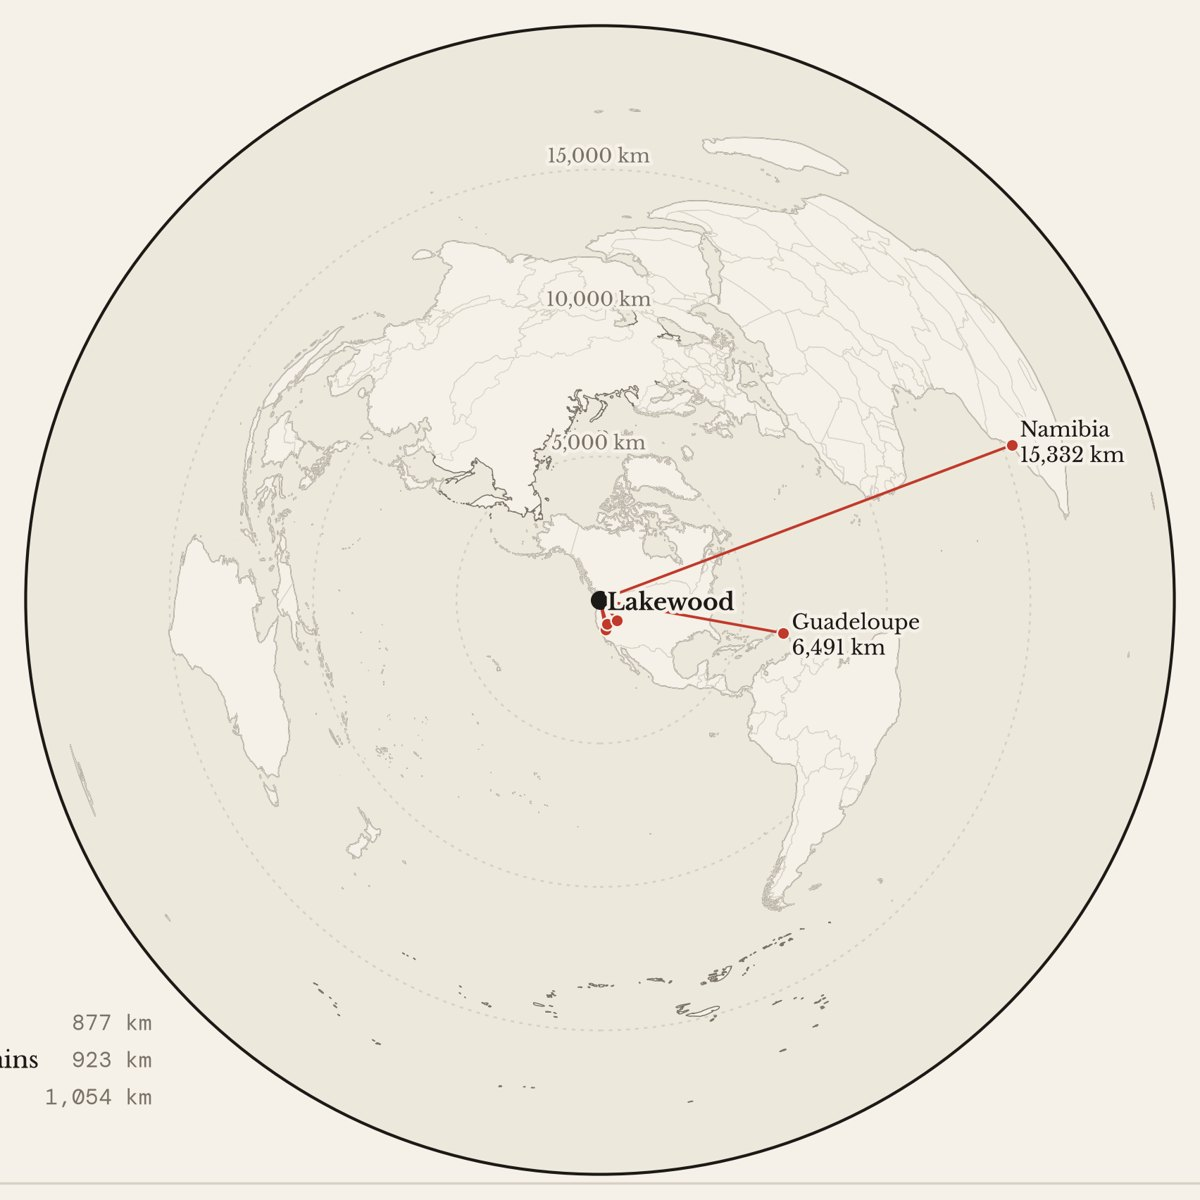
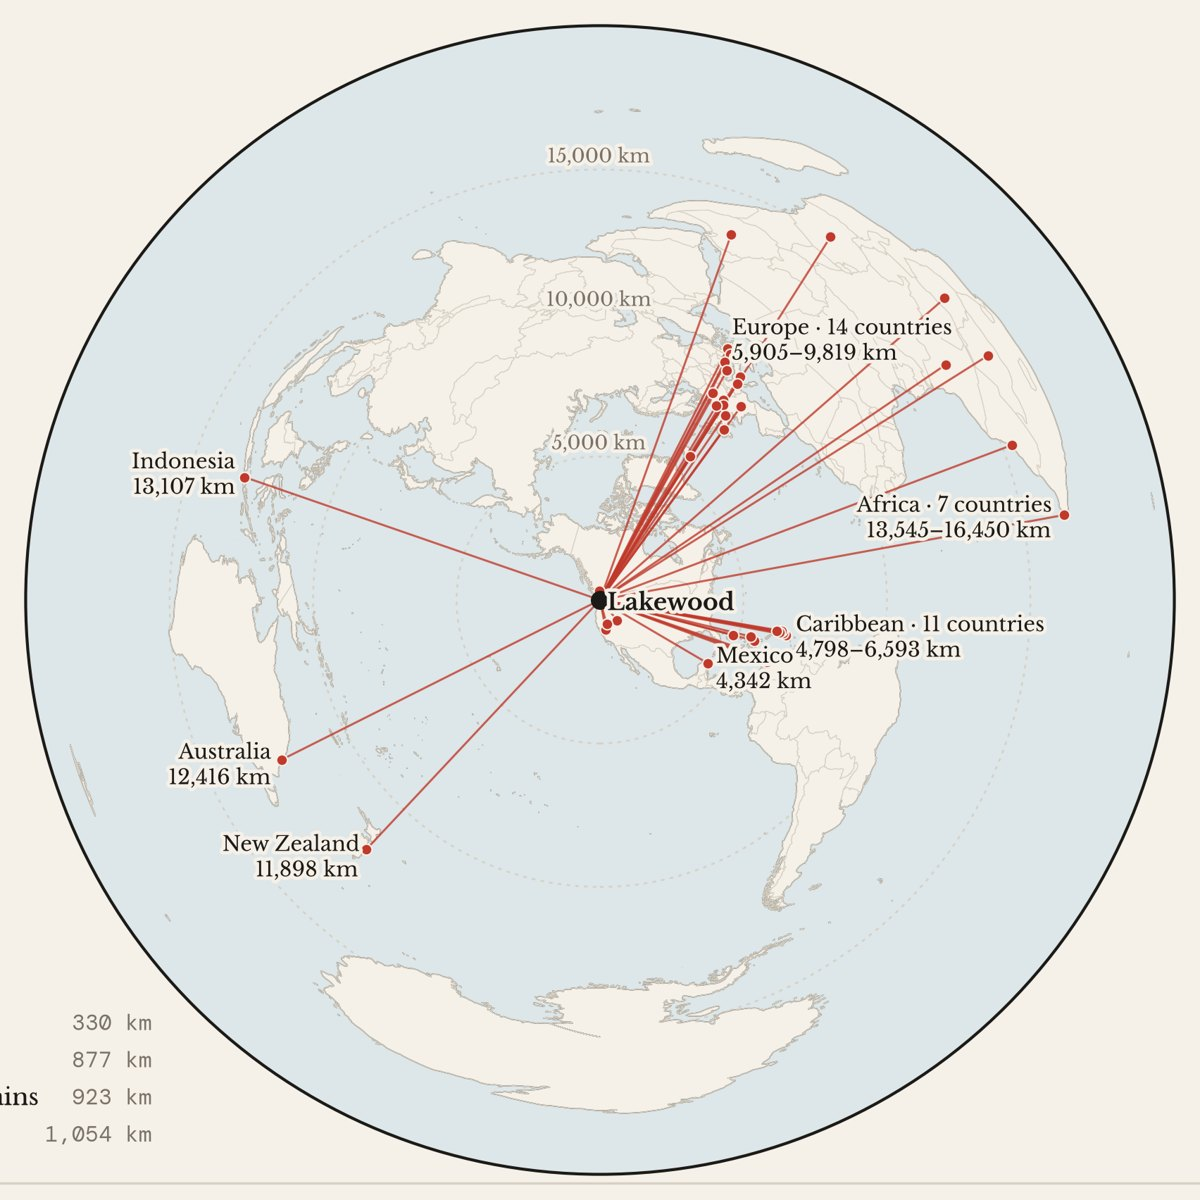
2026 Day 22: every country from the maps page (37), grouped labels, sea colour, and land that survives the projection
Places come from the Countries Visited layer on brooksgroves.com/maps.html,
at the middle of the geocache finds where there are any. Afro-Eurasia was
being dropped as an invalid shape near the antipode; it's now cut away from
the antipode and densified before projecting.

Claude-Session: https://claude.ai/code/session_01BLqNR1gKWRe4Nn6jLmYJMx

diff --git a/2026/share/day-22.html b/2026/share/day-22.html
@@ -2,19 +2,19 @@
 <html lang="en"><head><meta charset="UTF-8">
 <title>Day 22 · Projections: The world from Lakewood — #30DayMapChallenge 2026</title>
 <meta name="viewport" content="width=device-width, initial-scale=1">
-<meta name="description" content="A round world map centred on Lakewood, Washington, in an azimuthal equidistant projection, with red lines out to Groveland (1,054 km), Reno (877 km), Ruby Mountains (923 km), Namibia (15,332 km),…">
+<meta name="description" content="A round world map centred on Lakewood, Washington, in an azimuthal equidistant projection, with red lines out to the 37 countries I&#x27;ve been to and a few places closer to home. Africa: 7 countries,…">
 <link rel="canonical" href="https://brooksgroves.com/30DayMapChallenge/2026/share/day-22.html">
 <meta property="og:type" content="article">
 <meta property="og:site_name" content="Brooks Groves">
 <meta property="og:title" content="Day 22 · Projections: The world from Lakewood">
-<meta property="og:description" content="A round world map centred on Lakewood, Washington, in an azimuthal equidistant projection, with red lines out to Groveland (1,054 km), Reno (877 km), Ruby Mountains (923 km), Namibia (15,332 km),…">
+<meta property="og:description" content="A round world map centred on Lakewood, Washington, in an azimuthal equidistant projection, with red lines out to the 37 countries I&#x27;ve been to and a few places closer to home. Africa: 7 countries,…">
 <meta property="og:url" content="https://brooksgroves.com/30DayMapChallenge/2026/share/day-22.html">
 <meta property="og:image" content="https://brooksgroves.com/30DayMapChallenge/2026/day-22-projections/out/card.jpg">
 <meta property="og:image:width" content="1200"><meta property="og:image:height" content="630">
-<meta property="og:image:alt" content="A round world map centred on Lakewood, Washington, in an azimuthal equidistant projection, with red lines out to Groveland (1,054 km), Reno (877 km), Ruby Mountains (923 km), Namibia (15,332 km), Guadeloupe (6,491 km).">
+<meta property="og:image:alt" content="A round world map centred on Lakewood, Washington, in an azimuthal equidistant projection, with red lines out to the 37 countries I&#x27;ve been to and a few places closer to home. Africa: 7 countries, 13,545 to 16,450 km; Caribbean: 11 countries, 4,798 to 6,593 km; Europe: 14 countries, 5,905 to 9,819 km. Canada (330 km), Reno (877 km), Ruby Mountains (923 km), Groveland (1,054 km), Mexico (4,342 km), New Zealand (11,898 km), Australia (12,416 km), Indonesia (13,107 km). The farthest is South Africa.">
 <meta name="twitter:card" content="summary_large_image">
 <meta name="twitter:title" content="Day 22 · Projections: The world from Lakewood">
-<meta name="twitter:description" content="A round world map centred on Lakewood, Washington, in an azimuthal equidistant projection, with red lines out to Groveland (1,054 km), Reno (877 km), Ruby Mountains (923 km), Namibia (15,332 km),…">
+<meta name="twitter:description" content="A round world map centred on Lakewood, Washington, in an azimuthal equidistant projection, with red lines out to the 37 countries I&#x27;ve been to and a few places closer to home. Africa: 7 countries,…">
 <meta name="twitter:image" content="https://brooksgroves.com/30DayMapChallenge/2026/day-22-projections/out/card.jpg">
 <meta http-equiv="refresh" content="0; url=../#day-22">
 <script>location.replace("../#day-22")</script>

diff --git a/2026/day-22-projections/make.py b/2026/day-22-projections/make.py
@@ -5,7 +5,9 @@ An azimuthal equidistant projection centred on Lakewood, Washington. On this map
 this map, every straight line from the centre is the shortest route and its length is the true
 distance. The edge of the circle is the point on the far side of the Earth, in the Indian Ocean.
 
-Places are in places.csv (name, lat, lon, note): add to it and re-render.
+Places are in places.csv (name, lat, lon, note, group): every country on the Countries Visited layer
+at brooksgroves.com/maps.html (where I found geocaches there, the middle of those finds), plus a few
+places closer to home. Places that share a group (Europe, the Caribbean, Africa) get one label.
 Downloads (cached in data/): Natural Earth land and countries.
 """
 import sys
@@ -26,8 +28,9 @@ DATA = HERE / "data"
 HOME = (-122.5185, 47.1718)                       # Lakewood
 PROJ = f"+proj=aeqd +lat_0={HOME[1]} +lon_0={HOME[0]} +datum=WGS84 +units=m"
 R = 20_015_000                                    # half the Earth's circumference, m
+HOME_PLACES = {"Groveland", "Reno", "Ruby Mountains"}   # rows in places.csv that aren't countries
 
-places = pd.read_csv(HERE / "places.csv")
+places = pd.read_csv(HERE / "places.csv").fillna({"group": "", "note": ""})
 geod = Geod(ellps="WGS84")
 _, _, dist = geod.inv([HOME[0]] * len(places), [HOME[1]] * len(places), places["lon"], places["lat"])
 places["km"] = np.array(dist) / 1000
@@ -39,11 +42,17 @@ countries = fetch.shapes(fetch.COUNTRIES.replace("10m", "50m"), DATA / "countrie
 
 
 def project(gdf):
-    # clip just short of the antipode, where azimuthal equidistant blows up
+    """Azimuthal equidistant, clipped just short of the antipode where it blows up. Big polygons
+    (Afro-Eurasia is one) are cut away from the antipode first and densified, so they project to
+    valid shapes instead of being dropped."""
     from shapely.geometry import Point
-    g = gdf.to_crs(PROJ)
+    from shapely.validation import make_valid
+    anti = Point(HOME[0] + 180 if HOME[0] < 0 else HOME[0] - 180, -HOME[1]).buffer(1.5, 64)
+    g = gdf[["geometry"]].copy()
+    g["geometry"] = g.geometry.apply(make_valid).difference(anti).segmentize(0.5)
+    g = g[~g.geometry.is_empty].to_crs(PROJ)
+    g["geometry"] = g.geometry.apply(make_valid)
     disc = Point(0, 0).buffer(R * 0.995, 256)
-    g = g[g.geometry.is_valid & ~g.geometry.is_empty]
     g["geometry"] = g.geometry.intersection(disc)
     return g[~g.geometry.is_empty]
 
@@ -52,7 +61,7 @@ landp = project(land)
 ctry = project(countries)
 
 fig, ax = dmc.figure("square", map_box=(0.08, 0.075, 0.84, 0.70))
-ax.add_patch(Circle((0, 0), R, color=dmc.CREAM, zorder=0))
+ax.add_patch(Circle((0, 0), R, color="#dde6e8", zorder=0))     # sea
 for km in (5000, 10000, 15000):
     ax.add_patch(Circle((0, 0), km * 1000, fill=False, ec=dmc.MIST, lw=0.6, ls=(0, (2, 3)), zorder=1))
     dmc.label(ax, 0, km * 1000 + 250_000, f"{km:,} km", size=6.5, color=dmc.STONE, ha="center", zorder=6)
@@ -61,17 +70,30 @@ ctry.boundary.plot(ax=ax, color=dmc.MIST, lw=0.25, zorder=3)
 ax.add_patch(Circle((0, 0), R, fill=False, ec=dmc.INK, lw=1.0, zorder=4))
 from pyproj import Transformer  # noqa: E402
 to = Transformer.from_crs(4326, PROJ, always_xy=True)
-for _, p in places.iterrows():
-    x, y = to.transform(p["lon"], p["lat"])
-    ax.plot([0, x], [0, y], color=dmc.LAVA, lw=0.9, zorder=5)
-    ax.scatter([x], [y], s=18, color=dmc.LAVA, edgecolor=dmc.PARCHMENT, lw=0.6, zorder=6)
+places["x"], places["y"] = to.transform(places["lon"].values, places["lat"].values)
+for _, p in places.sort_values("km", ascending=False).iterrows():
+    ax.plot([0, p["x"]], [0, p["y"]], color=dmc.LAVA, lw=0.7, alpha=0.8, zorder=5)
+    ax.scatter([p["x"]], [p["y"]], s=14, color=dmc.LAVA, edgecolor=dmc.PARCHMENT, lw=0.5, zorder=6)
+
+
+def tag(x, y, text):
+    """Label beyond the point; near the rim, tuck it inside the circle instead."""
     ang = np.arctan2(y, x)
-    if p["km"] < 2500:
-        continue
-    dmc.label(ax, x + 300_000 * np.cos(ang), y + 300_000 * np.sin(ang), f"{p['name']}\n{p['km']:,.0f} km", size=7,
-              ha="left" if np.cos(ang) >= 0 else "right", va="center", zorder=7)
+    out = np.hypot(x, y) < R * 0.72
+    d = 350_000 if out else -450_000
+    side = np.cos(ang) >= 0
+    dmc.label(ax, x + d * np.cos(ang), y + d * np.sin(ang), text, size=7,
+              ha=("left" if side else "right") if out else ("right" if side else "left"), va="center", zorder=7)
+
+
+for _, p in places[(places["group"] == "") & (places["km"] >= 2500)].iterrows():
+    tag(p["x"], p["y"], f"{p['name']}\n{p['km']:,.0f} km")
+for g, gp in places[places["group"] != ""].groupby("group"):
+    far_one = gp.sort_values("km").iloc[-1]                 # label beyond the group's farthest place
+    lo, hi = gp["km"].min(), gp["km"].max()
+    tag(far_one["x"], far_one["y"], f"{g} · {len(gp)} countries\n{lo:,.0f}–{hi:,.0f} km")
 ax.scatter([0], [0], s=30, color=dmc.INK, zorder=7)
-near = places[places["km"] < 2500].sort_values("km")
+near = places[(places["km"] < 2500) & (places["group"] == "")].sort_values("km")
 if len(near):
     fig.text(0.05, 0.20, "CLOSE TO HOME", family=dmc.MONO, size=6.8, color=dmc.STONE)
     for i, (_, p) in enumerate(near.iterrows()):
@@ -82,13 +104,17 @@ ax.set_xlim(-R * 1.03, R * 1.03)
 ax.set_ylim(-R * 1.03, R * 1.03)
 ax.set_aspect("equal")
 
+n_countries = int((~places["name"].isin(HOME_PLACES)).sum())
 dmc.frame(
     fig, DAY,
-    subtitle=(f"Every straight line from Lakewood is the shortest route, true to scale.\n"
-              f"{far['name']} is {far['km']:,.0f} km away; the rim is the far side of the planet."),
+    subtitle=(f"Every country I've been to, {n_countries} of them, with straight lines that are the shortest route,\n"
+              f"true to scale. {far['name']} is the farthest, {far['km']:,.0f} km away; the rim is the far side of the planet."),
     source="Natural Earth · azimuthal equidistant projection centred on 47.17° N, 122.52° W",
     note="Only distances from the centre are true. Shapes stretch more the farther out they are.",
 )
 dmc.save(fig, DAY, alt=(
-    "A round world map centred on Lakewood, Washington, in an azimuthal equidistant projection, with red lines out to "
-    + ", ".join(f"{r['name']} ({r['km']:,.0f} km)" for _, r in places.iterrows()) + "."))
+    f"A round world map centred on Lakewood, Washington, in an azimuthal equidistant projection, with red lines out to "
+    f"the {n_countries} countries I've been to and a few places closer to home. "
+    + "; ".join(f"{g}: {len(gp)} countries, {gp['km'].min():,.0f} to {gp['km'].max():,.0f} km" for g, gp in places[places["group"] != ""].groupby("group"))
+    + ". " + ", ".join(f"{r['name']} ({r['km']:,.0f} km)" for _, r in places[places["group"] == ""].sort_values("km").iterrows())
+    + f". The farthest is {far['name']}."))

diff --git a/2026/README.md b/2026/README.md
@@ -28,7 +28,7 @@ Mapbox basemaps go where streets, towns and water give the data its context: Lig
 - [x] **Day 6**: Cook's chart is georeferenced from its own graticule, with Tasman's coast and an inset of his chart.
 - [x] **Day 11**: drafted with tsunami sirens; the lahar-siren version can come back if Pierce County shares locations.
 - [ ] **Day 21**: an evening adding Groveland to OpenStreetMap, then `make.py --refresh`.
-- [ ] **Day 22**: every place you've been, in `day-22-projections/places.csv`.
+- [x] **Day 22**: all 37 countries from the Countries Visited layer on the maps page are in `places.csv`.
 - [ ] **Day 27**: the lonboard tutorial, for the interactive version.
 - [ ] **Day 30**: don't look at a map of Groveland in November.
 
@@ -36,7 +36,7 @@ Mapbox basemaps go where streets, towns and water give the data its context: Lig
 
 - Drafted from real data: **1–6, 8–15, 17–29** (13 and 14 are interactive pages, with stills for posts). Day 10's draft is the line-printer map; the real one is made from prompts on the day.
 - Waiting on you: **7** (made on the day), **16** (replies into `answers.csv`), **30** (pen and paper).
-- Before posting: **20** (GBIF download for the DOI), **21** (re-render after your OSM evening), **22** (`places.csv`).
+- Before posting: **20** (GBIF download for the DOI), **21** (re-render after your OSM evening).
 
 <!-- table:start -->
 **0 of 30 done** · 💡 idea 2 · 📦 data in hand 1 · ✏ draft 27 · ✅ done 0 · 📣 posted 0

diff --git a/2026/day-22-projections/README.md b/2026/day-22-projections/README.md
@@ -13,7 +13,7 @@ An azimuthal equidistant map centred on Lakewood, where straight lines from the 
 
 **Tools:** Python, cartopy or pyproj
 
-**Prep:** Drafted. Add every place Brooks has been to day-22-projections/places.csv and re-render.
+**Prep:** Places come from the Countries Visited layer on brooksgroves.com/maps.html (37 countries; where there are geocache finds, the middle of them), plus Groveland, Reno and the Ruby Mountains. Add a country there and to places.csv, then re-render.
 
 Folder: `data/` for downloads (not committed), `out/` for the finished map (`map.png`, `alt.txt`).
 <!-- plan:end -->
